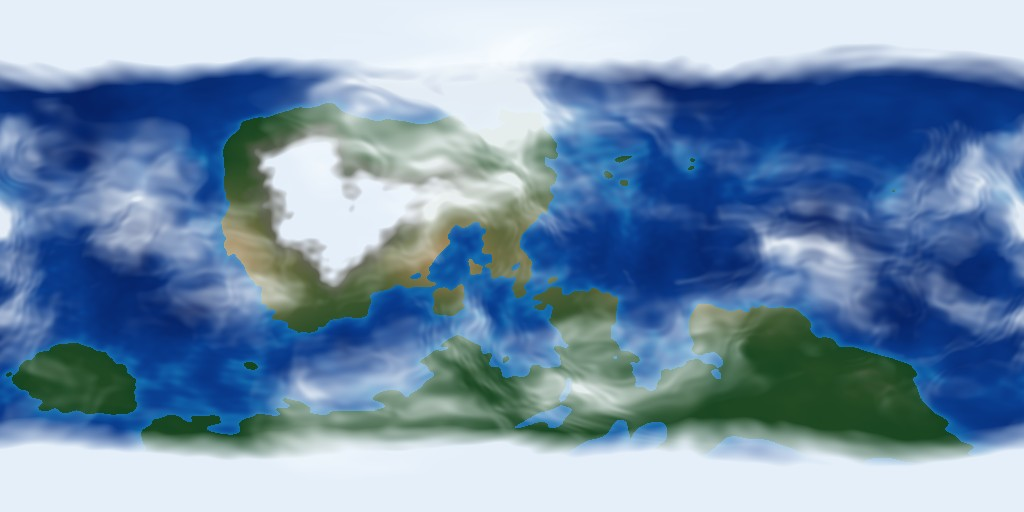
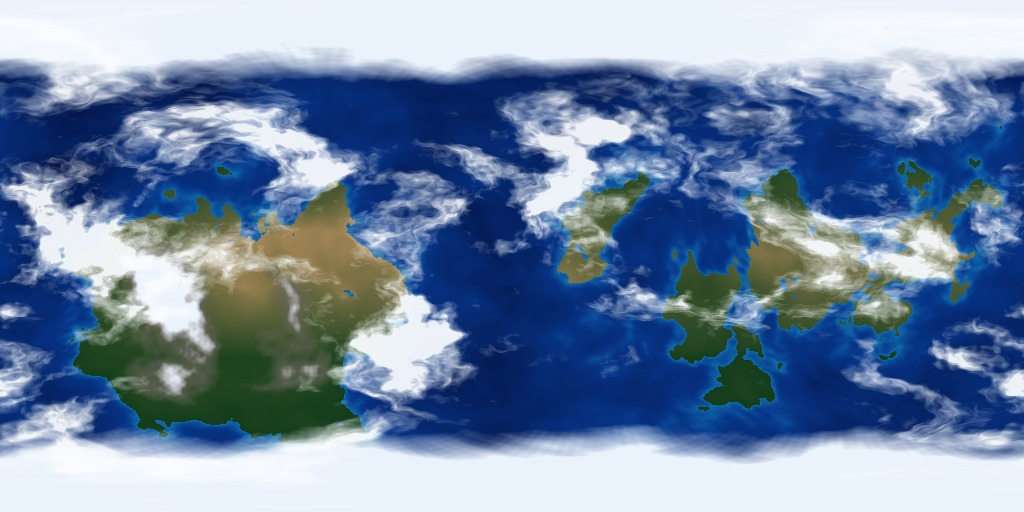
feat(lunar): add 1:1 Apollo Lunar Module with bootprints & sharpen Earth cloud fronts/Rayleigh limb

diff --git a/src/rendering/world-wonders.js b/src/rendering/world-wonders.js
@@ -409,6 +409,55 @@
     const suit2=makeSuit("lunarSuit2",9.1,-1.6,-1.25,0x2d6fd6);
     suit2.visible=(typeof G!=="undefined"&&G&&G.mode==="battle");
 
+    // 2.6 等比例（约 7 米高）阿波罗登月舱 (Apollo Lunar Module) + 从登月舱走向球场的脚印
+    const lmPos=[-17.5,-20.5],lmY=terrainY(lmPos[0],lmPos[1]);
+    const lm=batch();
+    // 下降级八边形金箔隔热层主体
+    lm.box(0xd6a026,0,2.25,0,3.2,1.65,3.2,0,0,0);
+    lm.box(0xc48b1a,0,2.25,0,3.5,1.45,2.2,0,Math.PI/4,0);
+    lm.box(0x282b30,0,1.25,0,1.15,.55,1.15); // 下降发动机喷口底座
+    lm.add("cone",0x3a3e45,0,.85,0,1.35,.95,1.35,Math.PI,0,0); // 发动机喷管
+    // 四条着陆支架 + 圆形着陆脚垫 + 登月梯
+    for(let k=0;k<4;k++){
+      const ang=Math.PI/4+k*Math.PI/2,cx=Math.cos(ang),cz=Math.sin(ang);
+      lm.box(0x9ca2ac,cx*2.25,1.15,cz*2.25,.15,2.65,.15,0,-ang,-0.62); // 主斜撑直连脚垫
+      lm.box(0x888e98,cx*1.95,1.68,cz*1.95,.10,1.45,.10,0,-ang,0.78);  // 上拉杆
+      lm.box(0xd4a438,cx*3.0,.08,cz*3.0,.92,.12,.92,0,ang,0);           // 着陆脚垫
+      if(k===1){
+        for(let r=0;r<6;r++)lm.box(0xbac0ca,cx*2.1,.45+r*.36,cz*2.1,.44,.05,.07,0,ang+Math.PI/2,0);
+      }
+    }
+    // 上升级银灰/炭黑乘员舱
+    lm.box(0xb8bec8,0,4.15,0,2.7,1.9,2.5);
+    lm.box(0x32363e,0,4.25,.85,2.35,1.5,1.2); // 前部深色隔热面板
+    lm.box(0x7c8490,0,4.25,-1.15,2.1,1.45,.85); // 后部设备舱
+    // 前部两个三角形舷窗
+    lm.box(0x162230,-.52,4.42,1.46,.52,.36,.06,0,0,-.22);
+    lm.box(0x162230,.52,4.42,1.46,.52,.36,.06,0,0,.22);
+    // 顶部对接舱口与 S 波段抛物面天线
+    lm.box(0x9aa0aa,0,5.25,0,1.0,.35,1.0);
+    lm.box(0x8c929c,.85,5.65,.2,.08,.9,.08);
+    lm.add("cone",0xdce0e6,.85,6.1,.35,1.1,.45,1.1,-1.1,0,0);
+    // 两侧姿态控制喷口组 (RCS)
+    for(const sx of [-1,1]){
+      lm.box(0x464a52,sx*1.58,4.35,.4,.42,.42,.42);
+      lm.box(0x8c929c,sx*1.82,4.35,.4,.22,.10,.10);
+    }
+    const lmGrp=new THREE.Group();
+    lmGrp.position.set(lmPos[0],lmY,lmPos[1]);lmGrp.rotation.y=.48;lmGrp.name="lunarLander";
+    const lmMesh=lm.finish(lmGrp,"lunarLanderMesh");
+    if(lmMesh){lmMesh.castShadow=true;lmMesh.receiveShadow=true;}
+    s.root.add(lmGrp);
+
+    // 从登月舱走向场边宇航服的月尘脚印链
+    const prints=batch();
+    for(let i=0;i<18;i++){
+      const t=i/17,px=-15.2+t*5.6+Math.sin(i*.4)*.25,pz=-17.8+t*13.8;
+      const side=(i%2?1:-1)*.18,py=terrainY(px+side,pz);
+      prints.box(0x484b50,px+side,py+.015,pz,.16,.02,.28,0,.35,0);
+    }
+    prints.finish(s.root,"lunarBootprints");
+
     // 3. 阿波罗实拍感漆黑宇宙星空（稀疏、微弱、柔和圆点星光，不抢主画面）
     const starCount=s.mobile?110:190,sPos=new Float32Array(starCount*3),sCol=new Float32Array(starCount*3);
     for(let i=0;i<starCount;i++){
@@ -473,10 +522,13 @@
           float lon=atan(N.x,N.z)/6.2831853+0.5+uTime*0.003;
           float lat=asin(clamp(N.y,-0.999,0.999))/3.14159265+0.5;
           vec3 albedo=texture2D(uMap,vec2(fract(lon),lat)).rgb;
-          float edgeFade=smoothstep(1.0,0.955,r);
-          vec3 atmo=vec3(0.28,0.68,1.0)*rim*(0.06+0.94*lit);
-          vec3 surface=albedo*(0.008+1.24*lit)+atmo;
-          vec3 col=mix(vec3(0.24,0.62,1.0)*(0.06+0.75*lit),surface,edgeFade);
+          float edgeFade=smoothstep(1.0,0.96,r);
+          // 柔和的海面太阳高光与锐利的瑞利蓝大气边缘散射
+          vec3 H=normalize(L+vec3(0.0,0.0,1.0));
+          float spec=pow(max(dot(N,H),0.0),28.0)*0.22*lit;
+          vec3 atmo=vec3(0.24,0.64,1.0)*pow(1.0-N.z,3.4)*(0.05+0.95*lit)*1.15;
+          vec3 surface=albedo*(0.008+1.26*lit)+vec3(0.75,0.88,1.0)*spec+atmo;
+          vec3 col=mix(vec3(0.22,0.60,1.0)*(0.05+0.72*lit),surface,edgeFade);
           float alpha=max(edgeFade,halo*0.85);
           gl_FragColor=vec4(col,clamp(alpha,0.0,1.0));
           #include <tonemapping_fragment>

diff --git a/block-3pt-kingv2.28.0-modular.html b/block-3pt-kingv2.28.0-modular.html
@@ -154,7 +154,7 @@
 <script src="src/rendering/hoop.js?v=f277914a"></script>
 <script src="src/rendering/hoop-dynamics.js?v=ad0f83f7"></script>
 <script src="src/rendering/environment-craft.js?v=65311c23"></script>
-<script src="src/rendering/world-wonders.js?v=ed31c958"></script>
+<script src="src/rendering/world-wonders.js?v=13bf5d06"></script>
 <script src="src/rendering/world-life.js?v=d2b62f0c"></script>
 <script src="src/rendering/world-places.js?v=c52ca6f6"></script>
 <script src="src/rendering/environments.js?v=d51631cf"></script>

diff --git a/index.html b/index.html
@@ -154,7 +154,7 @@
 <script src="src/rendering/hoop.js?v=f277914a"></script>
 <script src="src/rendering/hoop-dynamics.js?v=ad0f83f7"></script>
 <script src="src/rendering/environment-craft.js?v=65311c23"></script>
-<script src="src/rendering/world-wonders.js?v=ed31c958"></script>
+<script src="src/rendering/world-wonders.js?v=13bf5d06"></script>
 <script src="src/rendering/world-life.js?v=d2b62f0c"></script>
 <script src="src/rendering/world-places.js?v=c52ca6f6"></script>
 <script src="src/rendering/environments.js?v=d51631cf"></script>
